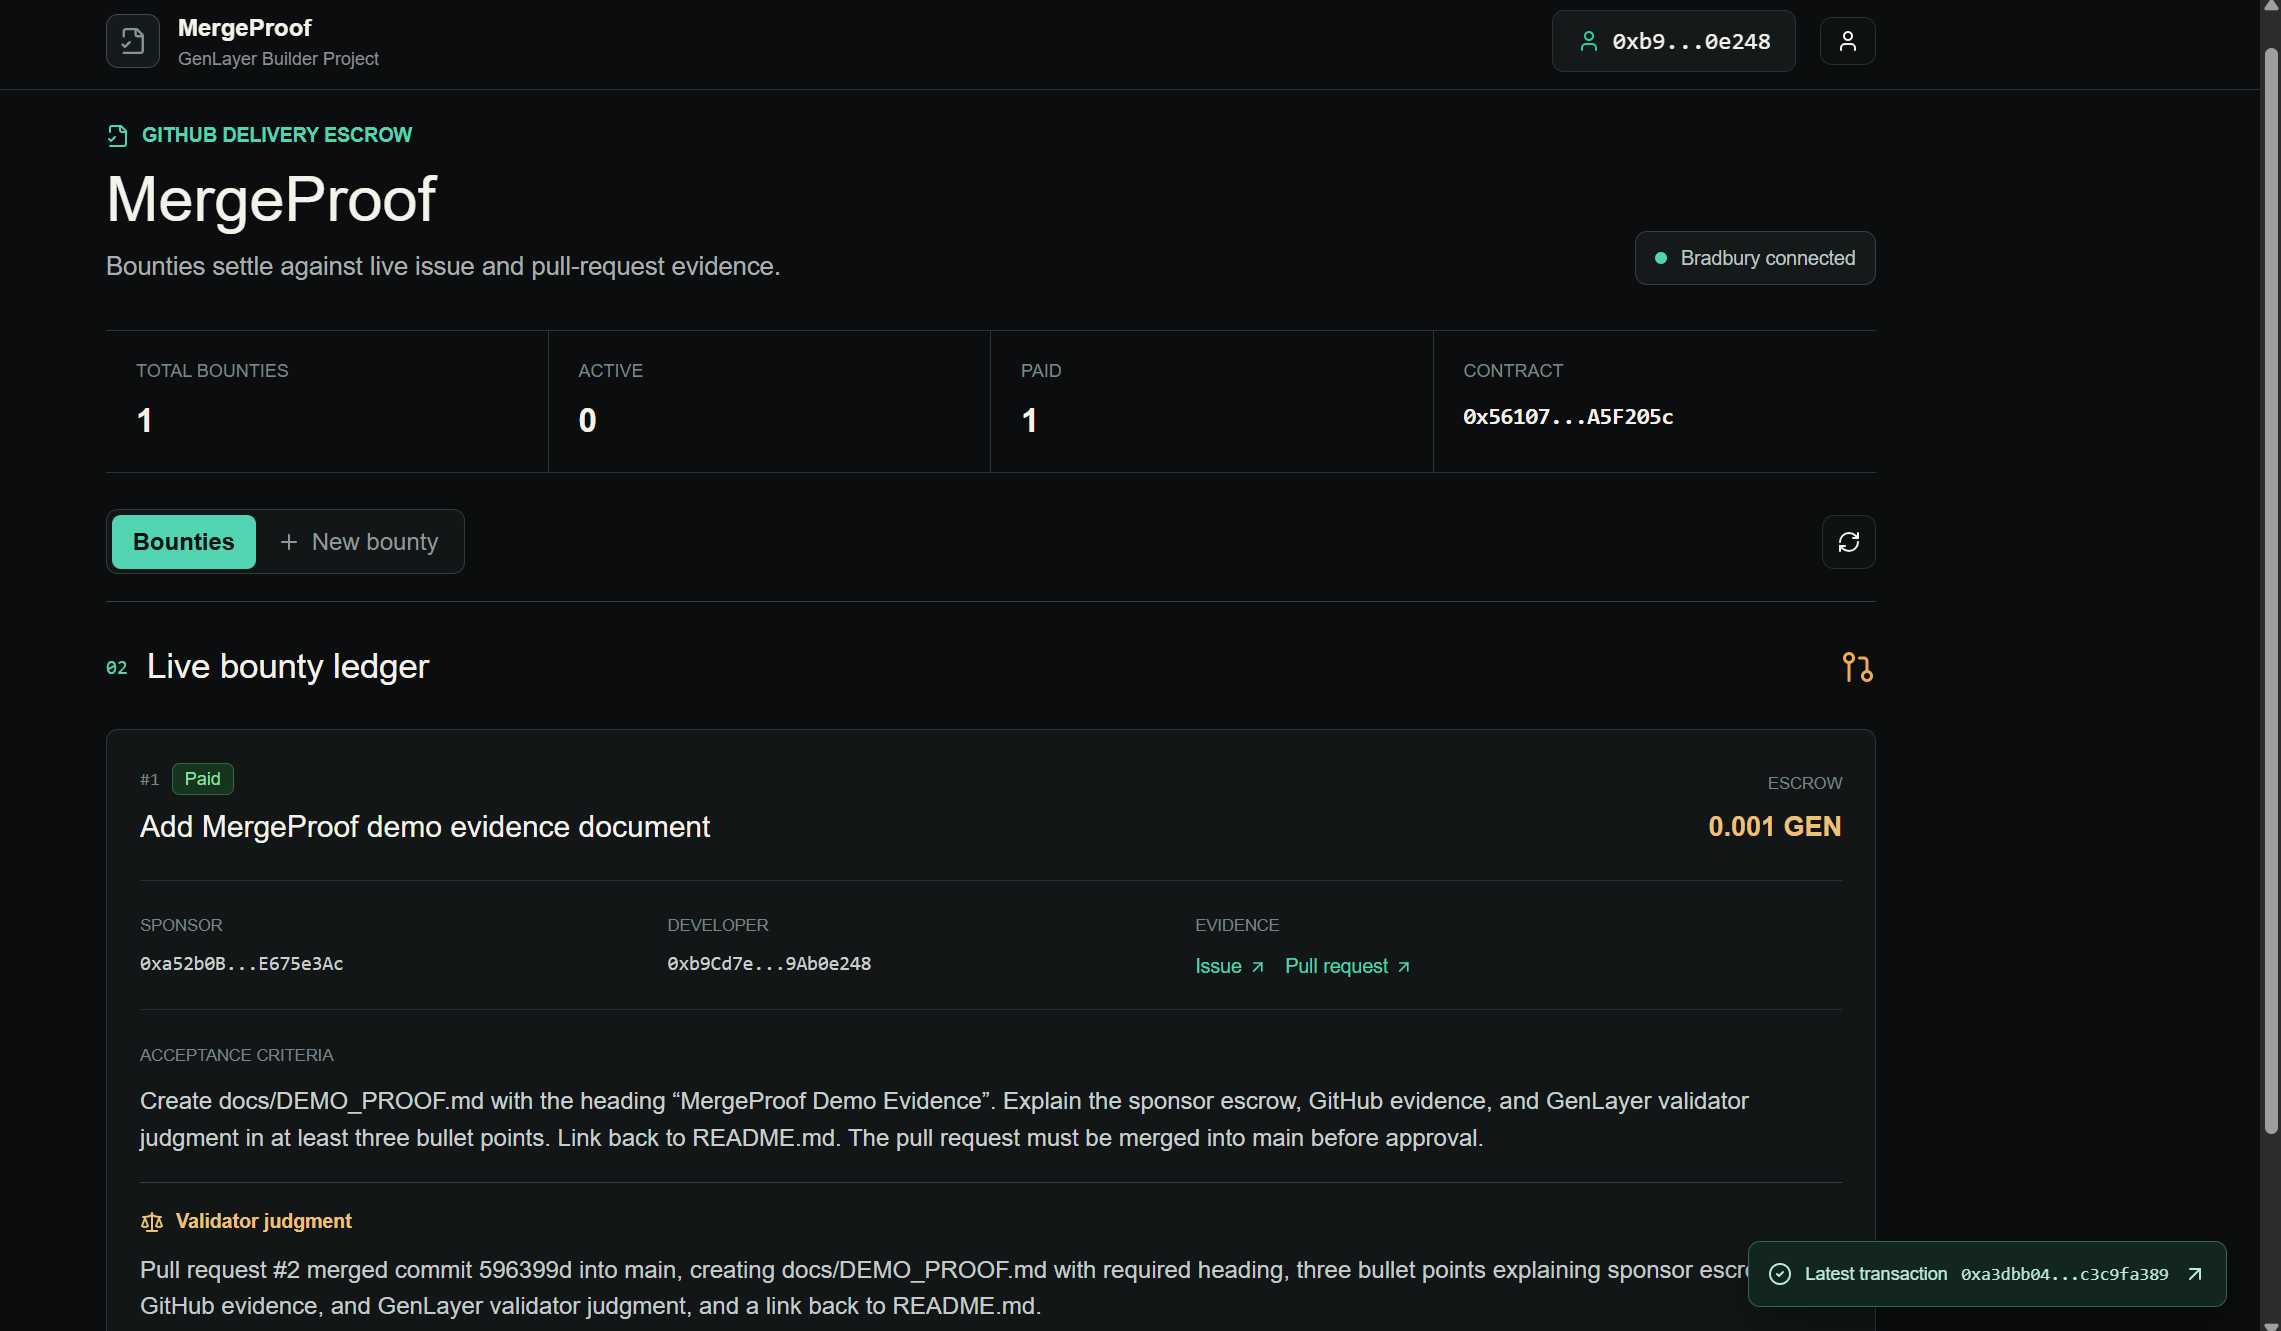
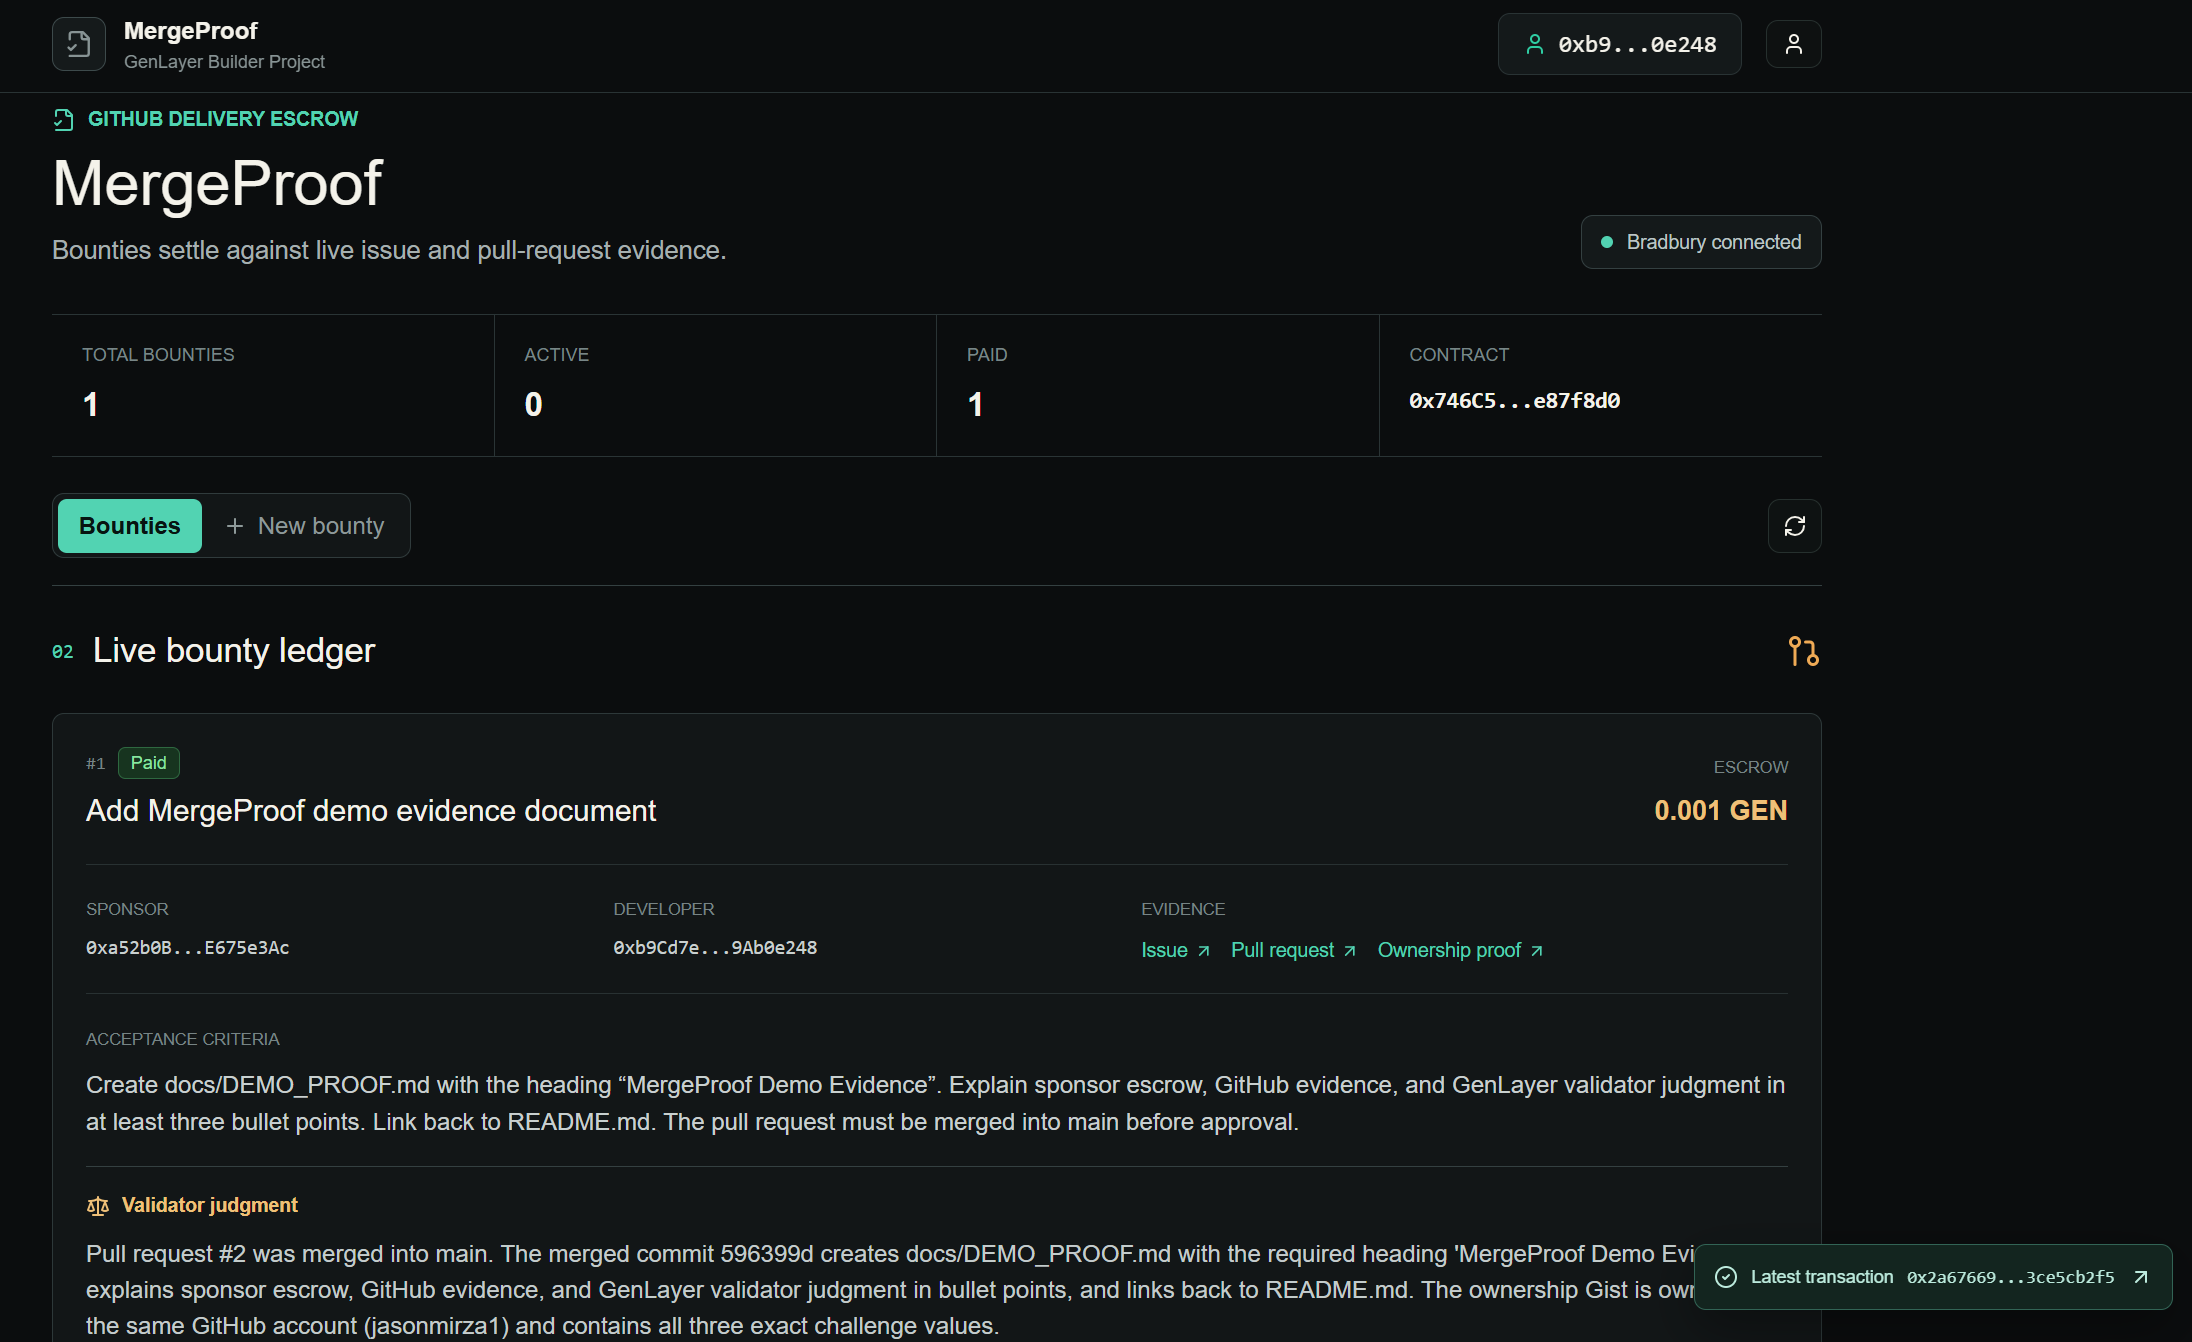
Record verified MergeProof ownership settlement

diff --git a/SUBMISSION.md b/SUBMISSION.md
@@ -19,9 +19,10 @@ MergeProof is a GitHub bounty escrow for work that cannot be verified by a simpl
 - Demo video: https://youtu.be/m0RhEOSz7jc
 - Bradbury contract: https://explorer-bradbury.genlayer.com/address/0x746C51C257dF5e4b34466BAE1ce692e3fe87f8d0
 - Bradbury deployment transaction: https://explorer-bradbury.genlayer.com/tx/0xd9196a30941f662bd4bcceea9a6d0d6990ae94abb1c6a11dcf64a20ec996f03f
-- Corrected ownership settlement: PENDING_LIVE_VERIFICATION
+- Corrected ownership settlement: https://explorer-bradbury.genlayer.com/tx/0x2a67669764456a7cff9fcb7279fb3ef7933e585202b5dcfa1da8e2b3ce5cb2f5
+- Ownership-proof Gist: https://gist.github.com/jasonmirza1/a1bd857282950b18b8162f87e64c0a9c
 - Merged evidence pull request: https://github.com/jasonmirza1/genlayer-mergeproof/pull/2
-- Previous workflow screenshot: https://github.com/jasonmirza1/genlayer-mergeproof/blob/main/docs/mergeproof-paid.png
+- Corrected paid-state screenshot: https://github.com/jasonmirza1/genlayer-mergeproof/blob/main/docs/mergeproof-paid.png
 
 ## Reviewer Path
 

diff --git a/README.md b/README.md
@@ -40,6 +40,8 @@ An unrelated wallet can submit a qualifying PR URL, but it cannot release escrow
 - Bradbury network: chain ID `4221`
 - Bradbury contract: [`0x746C51C257dF5e4b34466BAE1ce692e3fe87f8d0`](https://explorer-bradbury.genlayer.com/address/0x746C51C257dF5e4b34466BAE1ce692e3fe87f8d0)
[2 lines of base64/hex data omitted]
+- Ownership proof: [`jasonmirza1/a1bd857282950b18b8162f87e64c0a9c`](https://gist.github.com/jasonmirza1/a1bd857282950b18b8162f87e64c0a9c)
 - Network: GenLayer Bradbury, chain ID `4221`
 
 ![MergeProof paid bounty and validator judgment](docs/mergeproof-paid.png)
